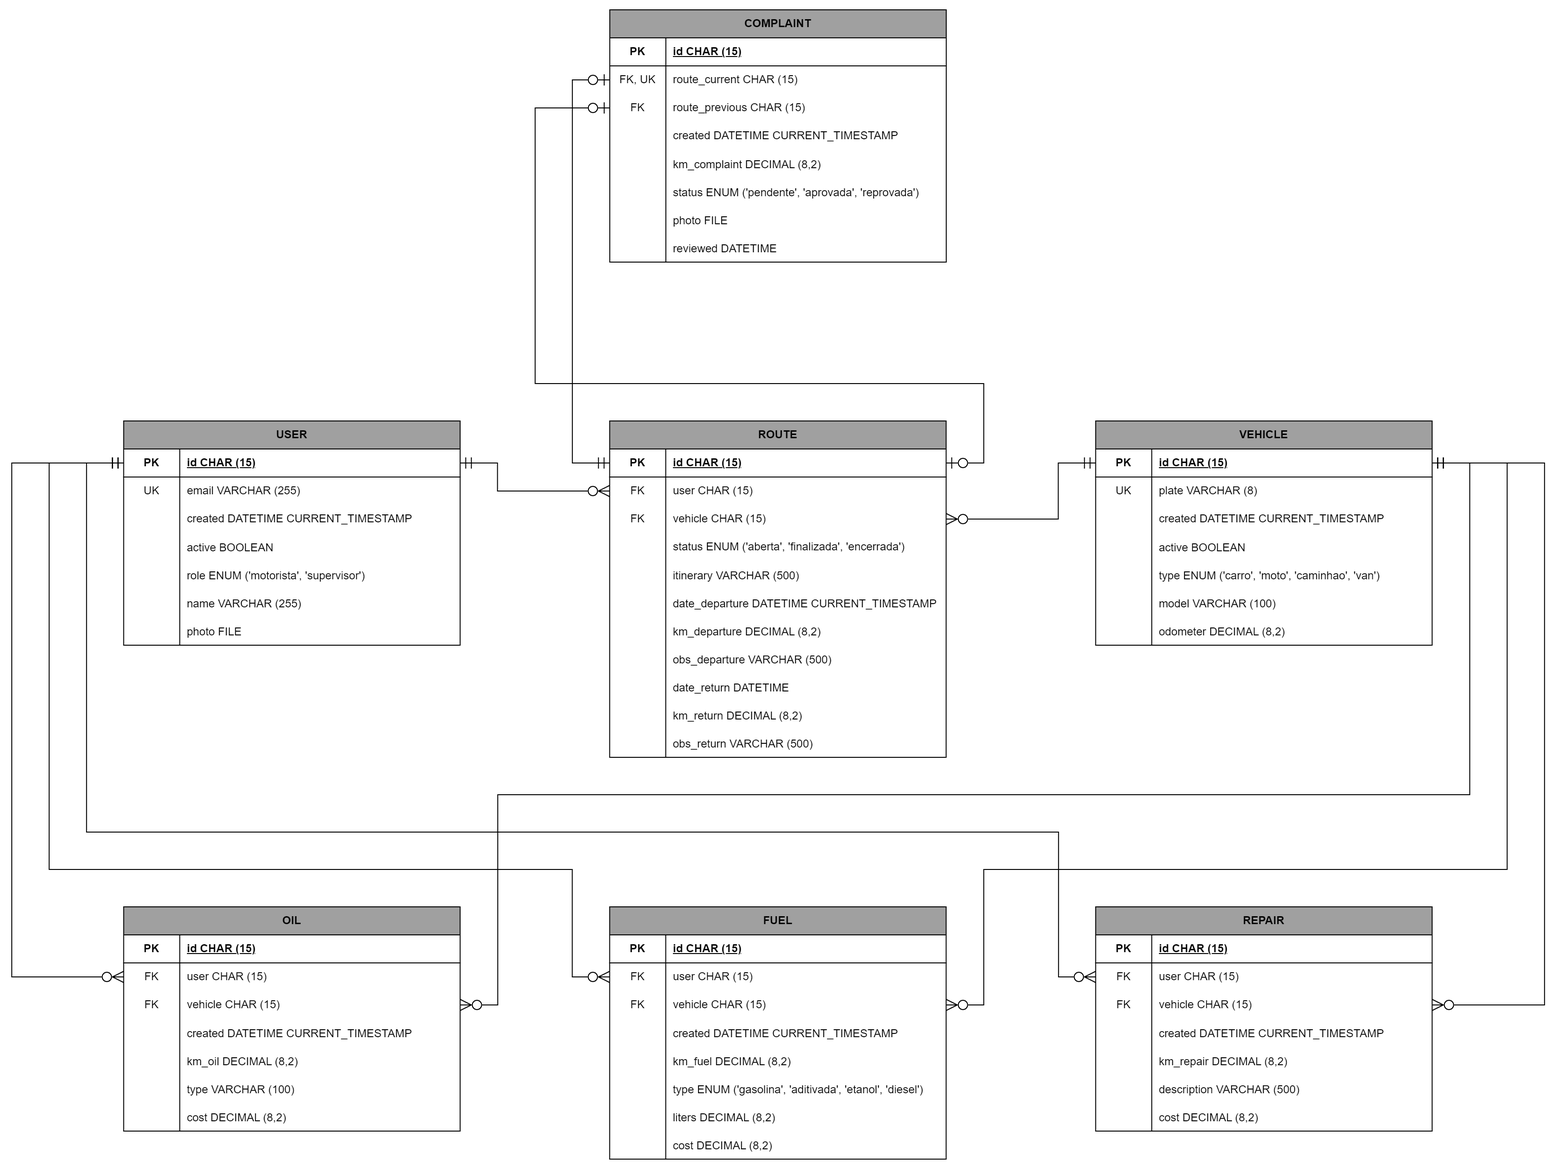
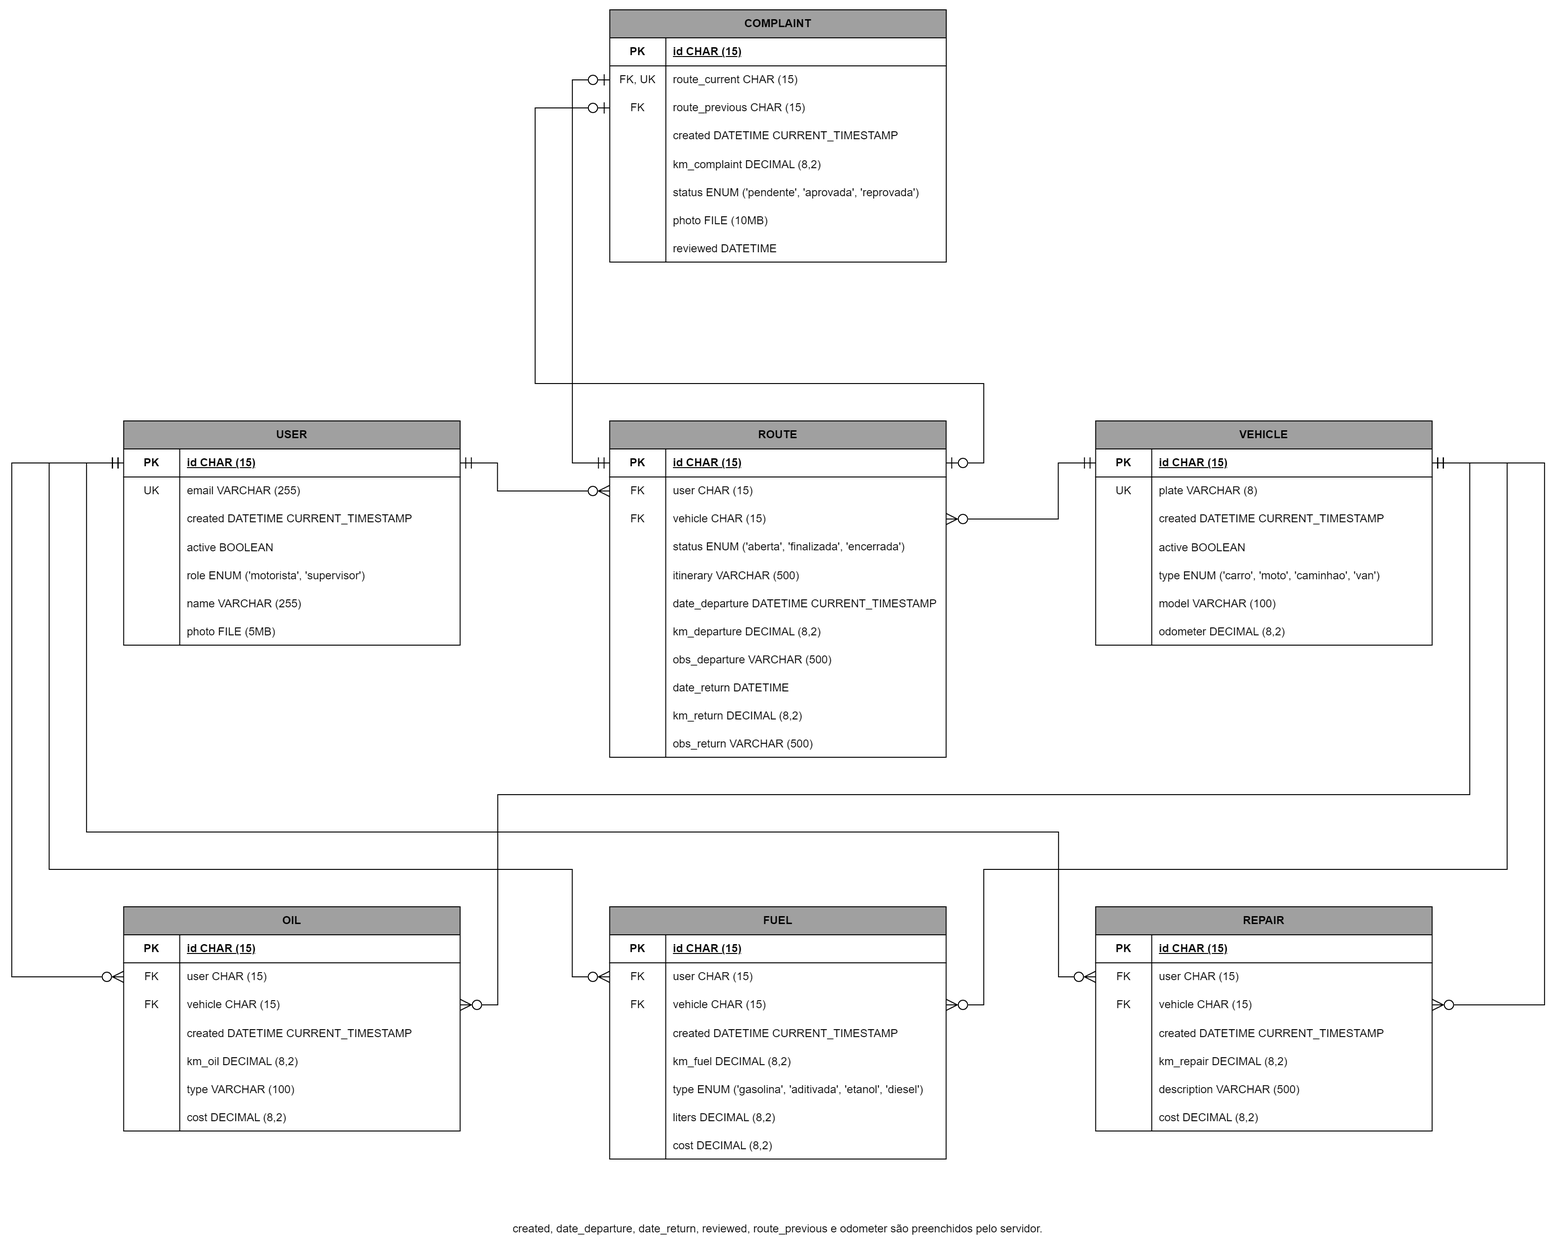
[TCC] Ajustes finais: 429 não desloga, espaço do login, DER e documentação (#94)
App: a revalidação da sessão não desloga o usuário num 429 nem num erro 5xx, o
login mostra "Muitas tentativas" e o espaço acima do teclado no login passou de
144 para 164 dp, por causa do link de privacidade.

Documentos: DER com os tamanhos dos arquivos e a nota do servidor, rate
limiting do PocketBase documentado, L15 atualizada e histórico sincronizado.

diff --git a/frontend/src/services/auth.ts b/frontend/src/services/auth.ts
@@ -15,15 +15,21 @@ export function signOut(): void {
 
 /**
  * Refreshes the stored session against the server. Resolves to false when the server rejects it
- * (expired token, user removed) and to true otherwise, including when the server is unreachable,
- * so that opening the app offline does not log the user out.
+ * (expired token, user removed or deactivated) and to true otherwise, including when the server
+ * is unreachable, busy (5xx) or limiting requests (429, the rate limit of the server), so that
+ * opening the app offline or in a burst of requests does not log the user out.
  */
 export async function refreshSession(): Promise<boolean> {
     try {
         await pb.collection('users').authRefresh();
         return true;
     } catch (error) {
-        return !(error instanceof ClientResponseError) || error.status === 0;
+        return (
+            !(error instanceof ClientResponseError) ||
+            error.status === 0 ||
+            error.status === 429 ||
+            error.status >= 500
+        );
     }
 }
 
@@ -38,6 +44,9 @@ export function describeLoginError(error: unknown): string {
         }
         if (error.status === 0) {
             return 'Não foi possível conectar ao servidor. Verifique sua conexão.';
+        }
+        if (error.status === 429) {
+            return 'Muitas tentativas. Aguarde alguns segundos e tente novamente.';
         }
     }
 

diff --git a/frontend/src/screens/LoginScreen.tsx b/frontend/src/screens/LoginScreen.tsx
@@ -19,9 +19,10 @@ import { colors, fontFamily, fontSize, spacing } from '../theme';
 
 /**
  * Space kept between the password field and the keyboard, so the Entrar button (gap 16, 40 dp),
- * the card padding (12), the note under the card (gap 24, 16 dp) and a margin of 36 stay visible.
+ * the card padding (12), the footer under the card (gap 24, then the note of 16 dp, a gap of 4 and
+ * the privacy link of 16 dp) and a margin of 36 stay visible: 16 + 40 + 12 + 24 + 36 + 36 = 164.
  */
-const KEYBOARD_CLEARANCE = 144;
+const KEYBOARD_CLEARANCE = 164;
 
 /**
  * Login screen (RF01). There is no sign-up link: users are created by the supervisor or by the

diff --git a/docs/historico-de-desenvolvimento.md b/docs/historico-de-desenvolvimento.md
@@ -4,7 +4,7 @@ Registro, issue por issue, do que foi feito, das decisões tomadas e do que foi 
 
 ## Entradas (de 10/11/2026 para trás)
 
-- **Revisão final do repositório (10 e 11/11, fora do plano, sem migração):** auditoria independente do código, dos testes, dos documentos, do GitHub e da segurança, seguida de correções, aplicadas só depois da aprovação do autor item a item. **Servidor (hooks, em produção na hora):** `routes.pb.js` passou a recusar a abertura de rota com `km_departure` diferente do `odometer` do veículo (`km_departure_not_odometer`, no `onRecordValidate`, depois da checagem das casas decimais), porque, sem isso, uma requisição direta abria a rota num km baixo e a finalização rebaixava o `odometer` (o app sempre enviou o km atual, então não muda para o usuário); e passou a apontar o veículo inexistente em `data.vehicle` (`validation_required` ou `validation_missing_rel_records`), em vez de uma recusa vazia. `complaints.pb.js` só ganhou um comentário sobre a recusa defensiva de `correctKm`, que a API hoje não alcança. **App:** `serverErrors.ts` traduz `validation_is_email` (o PocketBase manda esse código, não `validation_invalid_email`), `validation_missing_rel_records` e `km_departure_not_odometer`; `RouteDepartureScreen` mostra este último no `NoticeDialog` "O km do veículo mudou" e recarrega a lista. Removidos o componente `Alert` (sem uso), `routesLabel` e os tipos `ReportPeriodInput` e `ReportPeriodValues`; `.gitignore` na raiz; `ios.supportsTablet` passou a `false` (iPad nunca foi testado). **Testes:** novo `photo-limits.test.js` (9 testes: foto da denúncia até 10 MB, foto do perfil até 5 MB, só JPEG, PNG e WebP); seis testes novos em `route-rules.test.js` (km de saída igual ao `odometer`, veículo inexistente); a fábrica `make.route` passou a posicionar o veículo no km de saída antes de abrir a rota; os testes de relatório carregam do app as funções de soma reais (`buildReport`, `buildKmReport`, `buildComplaintReport`, por `helpers/app-modules.js`) em vez de uma cópia, e quebrar a soma do app agora derruba a suíte; o teste do usuário inativo passou a provar que a recusa da denúncia é da regra (rota aberta, `data` vazio); as asserções de status em faixa (`[400, 403, 404]`) viraram o status exato; os dois testes que alteram o esquema o restauram (`helpers/schema.js`). `npm test`: **545 de 545 verdes** (19 arquivos, 120 suítes); o `engines` do backend passou a `>=22.18`. **Seed:** as mensagens de `seed-demo.mjs` passaram para o inglês (a confirmação agora é `yes`) e o script antigo `seed-report-data.sh`, que o `seed-demo.mjs` substitui, foi removido, e `seed-demo.mjs` lê o `odometer` do servidor depois de cada rota, porque a regra nova recusaria uma saída em km desatualizado depois de uma denúncia aprovada em rota encerrada; rodou do começo ao fim numa instância descartável (114 rotas, 13 denúncias). **Documentos:** vocabulário único de situação dos requisitos (Atendido, Atendido com alteração e Reduzido, em relação à versão 1.0: reduzidos RF17, RF18, RF22 e RF23); limitações L11 a L14 (concorrência, superusuário e `odometer`, RB10 só de exibição, fotos sem token); testador externo (Pedro Kourly) e Android (Galaxy S25 FE, do autor, em todos os testes) corrigidos; fontes do README conferidas (política do Expo Go de maio de 2026 e US$ 99 do Apple Developer Program); CLAUDE.md sem caminhos pessoais e sem a nota das contas de teste. **Privacidade (LGPD):** nova folha "Privacidade dos dados" (`PrivacySheet`), aberta por um link no rodapé do login e por uma linha "Privacidade" na aba Usuário; é um aviso, sem aceite registrado, porque o supervisor cadastra os usuários. **Limite de tentativas de login:** não configurado, declarado na limitação L15. **Em "Gustavo" → "autor"** nas entradas deste arquivo e no CLAUDE.md, e a afirmação de que um colega testou no Android foi corrigida (S25 FE, do autor). **Ainda em aberto:** só o DER (tamanho dos campos de arquivo), a cargo do autor.
+- **Revisão final do repositório (10 e 11/11, fora do plano, sem migração):** auditoria independente do código, dos testes, dos documentos, do GitHub e da segurança, seguida de correções, aplicadas só depois da aprovação do autor item a item. **Servidor (hooks, em produção na hora):** `routes.pb.js` passou a recusar a abertura de rota com `km_departure` diferente do `odometer` do veículo (`km_departure_not_odometer`, no `onRecordValidate`, depois da checagem das casas decimais), porque, sem isso, uma requisição direta abria a rota num km baixo e a finalização rebaixava o `odometer` (o app sempre enviou o km atual, então não muda para o usuário); e passou a apontar o veículo inexistente em `data.vehicle` (`validation_required` ou `validation_missing_rel_records`), em vez de uma recusa vazia. `complaints.pb.js` só ganhou um comentário sobre a recusa defensiva de `correctKm`, que a API hoje não alcança. **App:** `serverErrors.ts` traduz `validation_is_email` (o PocketBase manda esse código, não `validation_invalid_email`), `validation_missing_rel_records` e `km_departure_not_odometer`; `RouteDepartureScreen` mostra este último no `NoticeDialog` "O km do veículo mudou" e recarrega a lista. Removidos o componente `Alert` (sem uso), `routesLabel` e os tipos `ReportPeriodInput` e `ReportPeriodValues`; `.gitignore` na raiz; `ios.supportsTablet` passou a `false` (iPad nunca foi testado). **Testes:** novo `photo-limits.test.js` (9 testes: foto da denúncia até 10 MB, foto do perfil até 5 MB, só JPEG, PNG e WebP); seis testes novos em `route-rules.test.js` (km de saída igual ao `odometer`, veículo inexistente); a fábrica `make.route` passou a posicionar o veículo no km de saída antes de abrir a rota; os testes de relatório carregam do app as funções de soma reais (`buildReport`, `buildKmReport`, `buildComplaintReport`, por `helpers/app-modules.js`) em vez de uma cópia, e quebrar a soma do app agora derruba a suíte; o teste do usuário inativo passou a provar que a recusa da denúncia é da regra (rota aberta, `data` vazio); as asserções de status em faixa (`[400, 403, 404]`) viraram o status exato; os dois testes que alteram o esquema o restauram (`helpers/schema.js`). `npm test`: **545 de 545 verdes** (19 arquivos, 120 suítes); o `engines` do backend passou a `>=22.18`. **Seed:** as mensagens de `seed-demo.mjs` passaram para o inglês (a confirmação agora é `yes`) e o script antigo `seed-report-data.sh`, que o `seed-demo.mjs` substitui, foi removido, e `seed-demo.mjs` lê o `odometer` do servidor depois de cada rota, porque a regra nova recusaria uma saída em km desatualizado depois de uma denúncia aprovada em rota encerrada; rodou do começo ao fim numa instância descartável (114 rotas, 13 denúncias). **Documentos:** vocabulário único de situação dos requisitos (Atendido, Atendido com alteração e Reduzido, em relação à versão 1.0: reduzidos RF17, RF18, RF22 e RF23); limitações L11 a L14 (concorrência, superusuário e `odometer`, RB10 só de exibição, fotos sem token); testador externo (Pedro Kourly) e Android (Galaxy S25 FE, do autor, em todos os testes) corrigidos; fontes do README conferidas (política do Expo Go de maio de 2026 e US$ 99 do Apple Developer Program); CLAUDE.md sem caminhos pessoais e sem a nota das contas de teste. **Privacidade (LGPD):** nova folha "Privacidade dos dados" (`PrivacySheet`), aberta por um link no rodapé do login e por uma linha "Privacidade" na aba Usuário; é um aviso, sem aceite registrado, porque o supervisor cadastra os usuários. **Limite de requisições:** ligado pelo autor no painel do PocketBase em 11/11, com os valores padrão (`*:auth` 2 por 3 s por IP); o IP real vem de `CF-Connecting-IP` em "IP proxy headers" (a preencher). `refreshSession` passou a não deslogar o usuário num `429` nem num erro 5xx, e o login mostra "Muitas tentativas"; o espaço acima do teclado no login passou de 144 para 164 dp, por causa do link de privacidade; o `der-final.png` foi atualizado com os tamanhos dos arquivos e a nota do servidor. **Em "Gustavo" → "autor"** nas entradas deste arquivo e no CLAUDE.md, e a afirmação de que um colega testou no Android foi corrigida (S25 FE, do autor). **Ainda em aberto:** o campo "Trusted IP proxy headers" do painel e a tag da entrega final.
 - Aviso de sessão encerrada na tela de login virou **toast azul** (10/11, pedido do autor, que viu o `Alert` com borda azul fora do padrão): `LoginScreen` chama `show('warning', notice)` do `useToast` quando o `notice` do `AuthContext` aparece e registra a área segura como barra de baixo (`useBottomBar(insets.bottom)`), para o toast ficar acima da barra de início; o `Alert` com o título "Sessão encerrada" saiu da tela. Tipos, lint e Prettier limpos; **não visto no aparelho**. Junto, `backend/seed/seed-demo.mjs` ganhou `--auto-hook` (copia `seed_backdate.pb.js` para a pasta de hooks, espera o servidor carregar e remove ao terminar, mesmo com erro ou Ctrl+C; `HOOKS_DIR` muda a pasta), testado numa instância descartável (criar e `--clean`); o servidor reinicia por alguns segundos ao remover o hook. O seed rodou na produção em 10/11 (112 rotas, 13 denúncias, 47 abastecimentos, 25 trocas de óleo e 17 manutenções, R$ 39.670,63), com o hook copiado à mão.
 - Encerramento de rotas e Revisão de denúncias paginam de 10 em 10 (trabalho **fora do plano**, como a #47; commit `672e2b9`, mesclado em 10/11 na branch da #43, **sem migração, hook nem endpoint**). `RouteClosureScreen` e `ComplaintReviewScreen` usam `ListFilters` fixo no topo e `PagedList` (como o Histórico), com filtro, ordem e busca no servidor; `getFullList`, `filterClosureRoutes` e `filterReviewComplaints` saíram. A visão "Todas" junta duas consultas em sequência (abertas e depois encerradas, pendentes e depois revisadas) por `readSegmentedPage` (`services/segmentedList.ts`, função pura), com desempate por `id` em todas as ordens, então a página N é a janela `[(N-1)*10, N*10)` da sequência; os chips de situação usam um segmento só. `closureSegments`/`listClosureRoutes` (`routes.ts`) e `reviewSegments`/`listReviewComplaints` (`complaints.ts`); a lista de revisão usa `ReviewListComplaint` (sem a rota anterior, que só existe no detalhe, `ReviewComplaint`). A busca por modelo, placa (com ou sem hífen, parcial) e nome do motorista é no servidor (`~`, sem ignorar acento, como no Histórico) e `vehicleSearchMatches` e `plateSearchTexts` saíram do `history.ts` para `services/vehicleSearch.ts` (também usado pelos Relatórios), com `supervisorSearchFilter` novo; busca e chips ficam sempre visíveis, mesmo com a lista vazia. Os contadores de Serviços não mudaram. `backend/tests/admin-list-queries.test.js` (19 testes: páginas somadas sem lacuna nem repetição em tamanhos 1, 3, 4, 5 e 10, fim de página no fim do primeiro segmento, chips, busca, RB10, motorista só vê o que é dele); `npm test`: **530 verdes**; tipos, lint e Prettier limpos. O teste importa um `.ts` direto, o que pede Node 22.18 ou mais novo. **Não visto no aparelho:** o autor testa no Expo Go (incluir a busca do Histórico e os Relatórios, que usam o módulo novo). A limitação "Encerramento e Revisão crescem sem limite" deixa de existir; sobram Motoristas e Veículos (leem tudo, filtram no app) e os relatórios.
 - #43 (insumos para os capítulos de desenvolvimento e resultados do TCC) concluída em 10/11, **só documentação, o script de dados de demonstração e dois ajustes de app (sem migração nem hook novo)**; a última issue do plano. **Entregáveis em `docs/`:** `requisitos-final.md` (ERS versão 2.0, alinhada ao implementado: 23 RF, 8 RNF e 21 RB com as RB20 e RB21 novas, limitações L01 a L09, rastreabilidade e apêndice das alterações em relação ao documento de 13/10), `planejamento-final.md` (Planejamento de Issues como executado, com as 44 issues, as datas reais, a matriz de 52 requisitos, os riscos e as decisões) e, em `docs/tcc/`, `insumos.md` (atendimento por RF, RNF e RB, resultados dos testes: 530 de 530 na API, T01 a T18 em dois aparelhos), `balanco-final.md` (visão do processo, RF com ressalva ligados às issues, auditoria dos critérios e a análise dos quatro documentos de origem), `capturas/` (28 capturas em `ios/` em `.png` e 28 em `android/` em `.jpg`, mesmo nome-base, feitas em 9 e 10/11 com os dados fictícios da produção) e `diagramas/` (`der-final.png`, `dcu-final.png` e `ajustes-der-dcu.md`). **Achados da análise dos documentos de origem:** o RF22 não filtra por placa e modelo (decisão do autor: o relatório é agrupado por veículo, requisito reescrito), o RF18 não tem a borda verde (decisão do autor), o RF23 é atendido (opcional: dois dos três candidatos), o RB05, o RB13 e o RB14 ganham nota (piso do retorno e denúncia pendente da rota anterior), o DER só muda limites de tamanho e o tipo arquivo das fotos, e o DCU ganha o ator Superadmin; o desenvolvimento começou em 20/10, sete dias depois do planejado, e as milestones 1 a 5 tiveram durações próximas do plano (22 dias ao todo, contra 19). **Dados de demonstração:** `backend/seed/seed-demo.mjs` (de prontidão: `npm run seed`, `seed:clean` e `seed:reset` em `backend/`, com `--auto-hook`, confirmação em servidor remoto e `DEMO_DOMAIN`; ver "Receita rápida" em `docs/tcc/capturas/dados-de-demonstracao.md`) criou na produção, em 9/11, 7 usuários (`nome.sobrenome@trace.com`, domínio escolhido pelo autor), 8 veículos, 112 rotas, 13 denúncias, 47 abastecimentos, 25 trocas de óleo e 17 manutenções; o `--clean` apaga só os endereços exatos que criou, nunca as contas de teste (`supervisor.a` etc.). **Limitações retiradas:** o autor reverificou em 10/11 no Android e a barra de abas sobe com o teclado na busca do Histórico e a `ActionBar` pisca já não aconteciam. O critério da #29 foi executado e passou (a recusa da RB14 por denúncia pendente da rota anterior aparece no app depois do toque). As listas do app mostram só os dados de demonstração (os de teste foram apagados antes do seed).

diff --git a/docs/tcc/balanco-final.md b/docs/tcc/balanco-final.md
@@ -298,7 +298,7 @@ O DER tem 7 entidades (USER, VEHICLE, ROUTE, COMPLAINT, FUEL, OIL, REPAIR), e o 
 | Acrescentar | Nomes                                                                        | As coleções chamam-se `users`, `vehicles`, `routes`, `complaints`, `fuels`, `oils` e `repairs`; os campos têm os nomes do DER, exceto `users.avatar`, renomeado para `photo`.                                                                                     | Tabela de correspondência ao lado do DER.                                                                                                                |
 | Acrescentar | Campos de sistema                                                            | O PocketBase acrescenta campos próprios à coleção de usuários (`verified`, `emailVisibility`, `password`, `tokenKey`) que não são do domínio.                                                                                                                      | Nota "campos de autenticação do PocketBase omitidos".                                                                                                    |
 
-**Lista do que alterar no DER e situação em 10/11** (valores conferidos no esquema aplicado pelas migrações, em 7/11; tudo o mais no diagrama está igual ao banco). No `der-final.png` de 10/11 foram aplicados os itens 1, 3, 4, 5 e 6; os itens 2 e 7 (tipo e tamanho dos campos de arquivo) e as notas 8 a 10 ainda não constam do diagrama:
+**Lista do que alterar no DER e situação em 10/11** (valores conferidos no esquema aplicado pelas migrações, em 7/11; tudo o mais no diagrama está igual ao banco). Na versão do diagrama de 11/11 foram aplicados os itens 1 a 8 (inclusive o tipo e o tamanho dos campos de arquivo e a nota de rodapé dos campos preenchidos pelo servidor); as notas 9 e 10 e os itens opcionais 11 e 12 não constam do diagrama e podem ficar de fora sem mudar a representação do modelo:
 
 1. `USER`: `name VARCHAR (100)` passa a `VARCHAR (255)`.
 2. `USER`: `photo VARCHAR (255)` passa a `FILE (até 5 MB)`.

diff --git a/docs/requisitos-final.md b/docs/requisitos-final.md
@@ -221,7 +221,7 @@ Cada regra tem um cenário no roteiro de testes (`docs/roteiro-de-testes.md`) co
 | L12 | O servidor impede que um usuário altere o km atual do veículo, mas o superusuário, no painel do PocketBase, pode editá-lo (e qualquer outro campo). É o acesso do superadmin, fora do aplicativo. | RB09 |
 | L13 | A RB10 (o histórico mostra só rotas finalizadas) é uma regra de exibição: está no filtro do aplicativo, e a API devolve as rotas encerradas a quem pode listá-las, porque o módulo de encerramento precisa delas. | RB10 |
 | L14 | As fotos de perfil e de denúncia são servidas por URL sem token (o campo de arquivo do PocketBase não é protegido). O nome do arquivo é aleatório, então a URL não é adivinhável, mas quem a tiver vê a imagem. Proteger exigiria marcar os campos como protegidos, pedir um token de arquivo em três pontos do aplicativo e gerar um novo APK. | RF04, RF14 |
-| L15 | Privacidade e acesso: o app mostra um aviso de privacidade (folha "Privacidade dos dados", no login e na aba Usuário), mas não registra aceite, porque os usuários são cadastrados pelo supervisor da empresa. Não há limite de tentativas de login configurado no PocketBase, e a política de senha é o padrão de 8 caracteres. | RNF04, RB19 |
+| L15 | Privacidade e acesso: o app mostra um aviso de privacidade (folha "Privacidade dos dados", no login e na aba Usuário), mas não registra aceite, porque os usuários são cadastrados pelo supervisor da empresa. A política de senha é o padrão do PocketBase, de 8 caracteres. O limite de requisições do PocketBase está ligado, com os valores padrão (2 tentativas de login por 3 s por IP). | RNF04, RB19 |
 
 ## 7. Rastreabilidade
 

diff --git a/backend/README.md b/backend/README.md
@@ -20,6 +20,10 @@ A origem dos bind mounts é o checkout deste repositório no servidor (a pasta `
 - Tudo que estiver em `pb_migrations` roda no próximo restart do contêiner. Não deixe migração incompleta ali.
 - Os hooks recarregam sozinhos quando um arquivo de `pb_hooks` muda. Trocar de branch muda o que a produção carrega na hora.
 
+### Limite de requisições (rate limiting)
+
+A instância de produção tem o rate limiting do PocketBase ligado (Settings, Application, "Rate limiting"), com as regras padrão: `*:auth` 2 requisições por 3 s por IP, `*:create` 20 por 5 s, `/api/batch` 3 por 1 s e `/api/` 300 por 10 s. O acesso passa pelo Cloudflare Tunnel, então o painel "IP proxy headers" deve ter `CF-Connecting-IP` em "Trusted IP proxy headers": sem isso o PocketBase vê todos os usuários com o IP do túnel e divide o mesmo contador entre eles. O app trata o `429`: no login mostra "Muitas tentativas" e a revalidação da sessão não desloga o usuário. A configuração é do painel, não do repositório.
+
 ## Superadmin
 
 O superadmin é o superuser do PocketBase. Ele entra só pelo painel `/_/`, fora do app, e cria e gerencia os supervisores. As credenciais ficam no gerenciador de senhas do responsável e **nunca** entram no repositório, no `.env` ou em issues.
